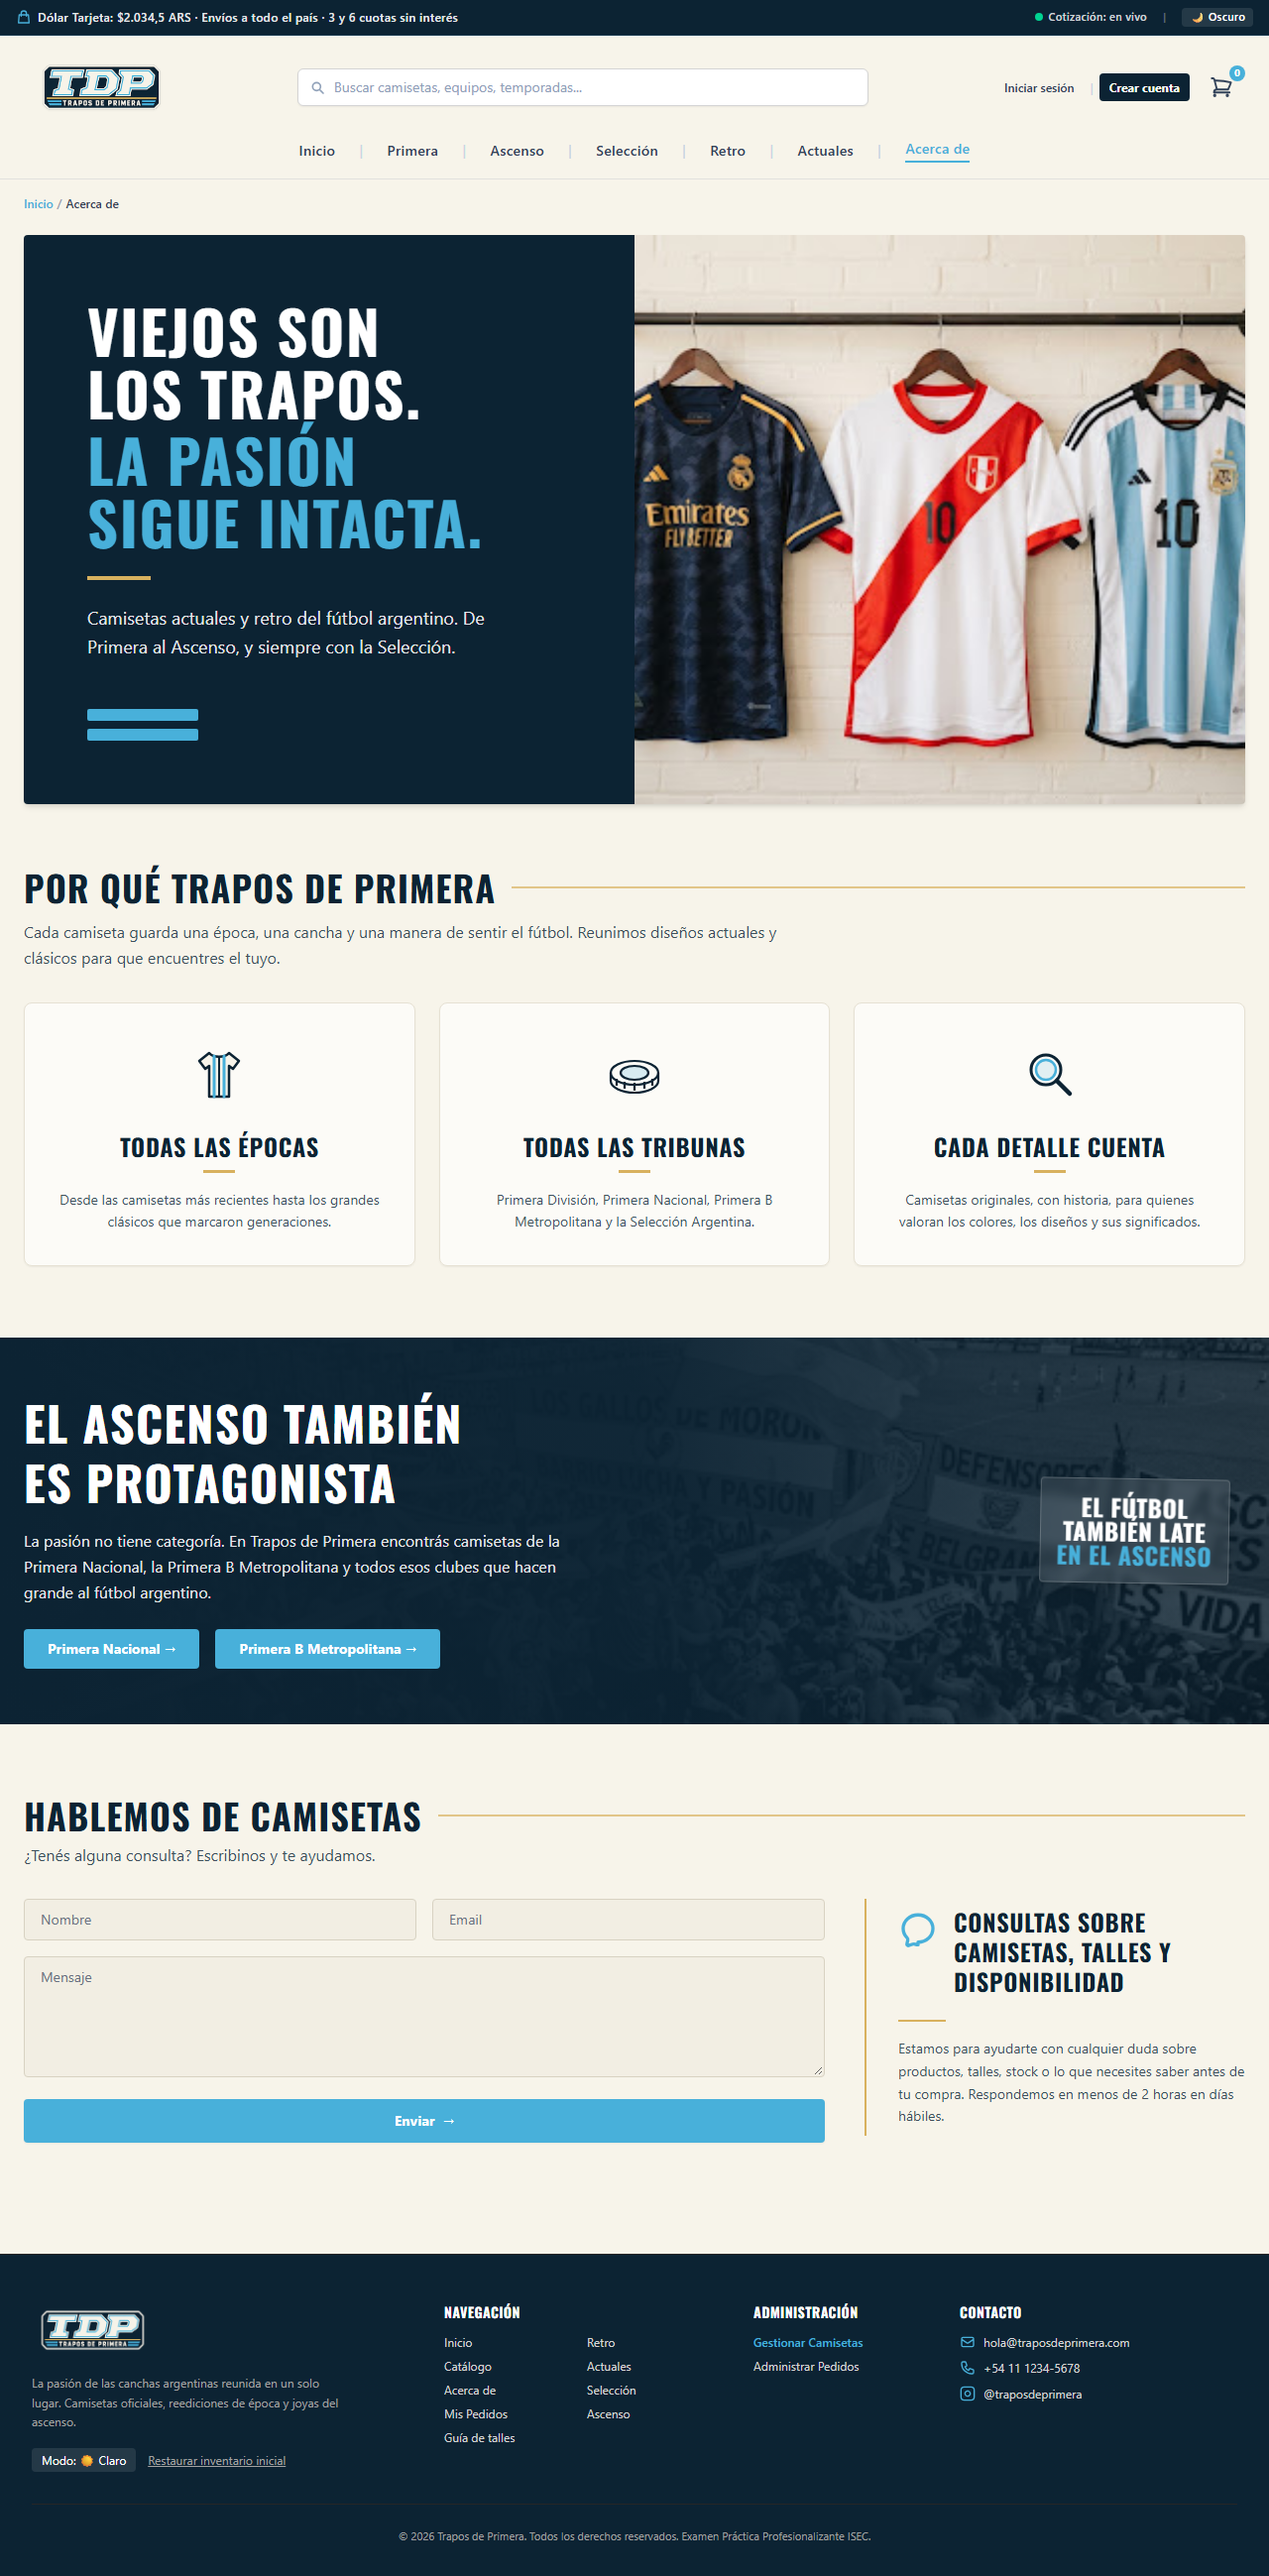
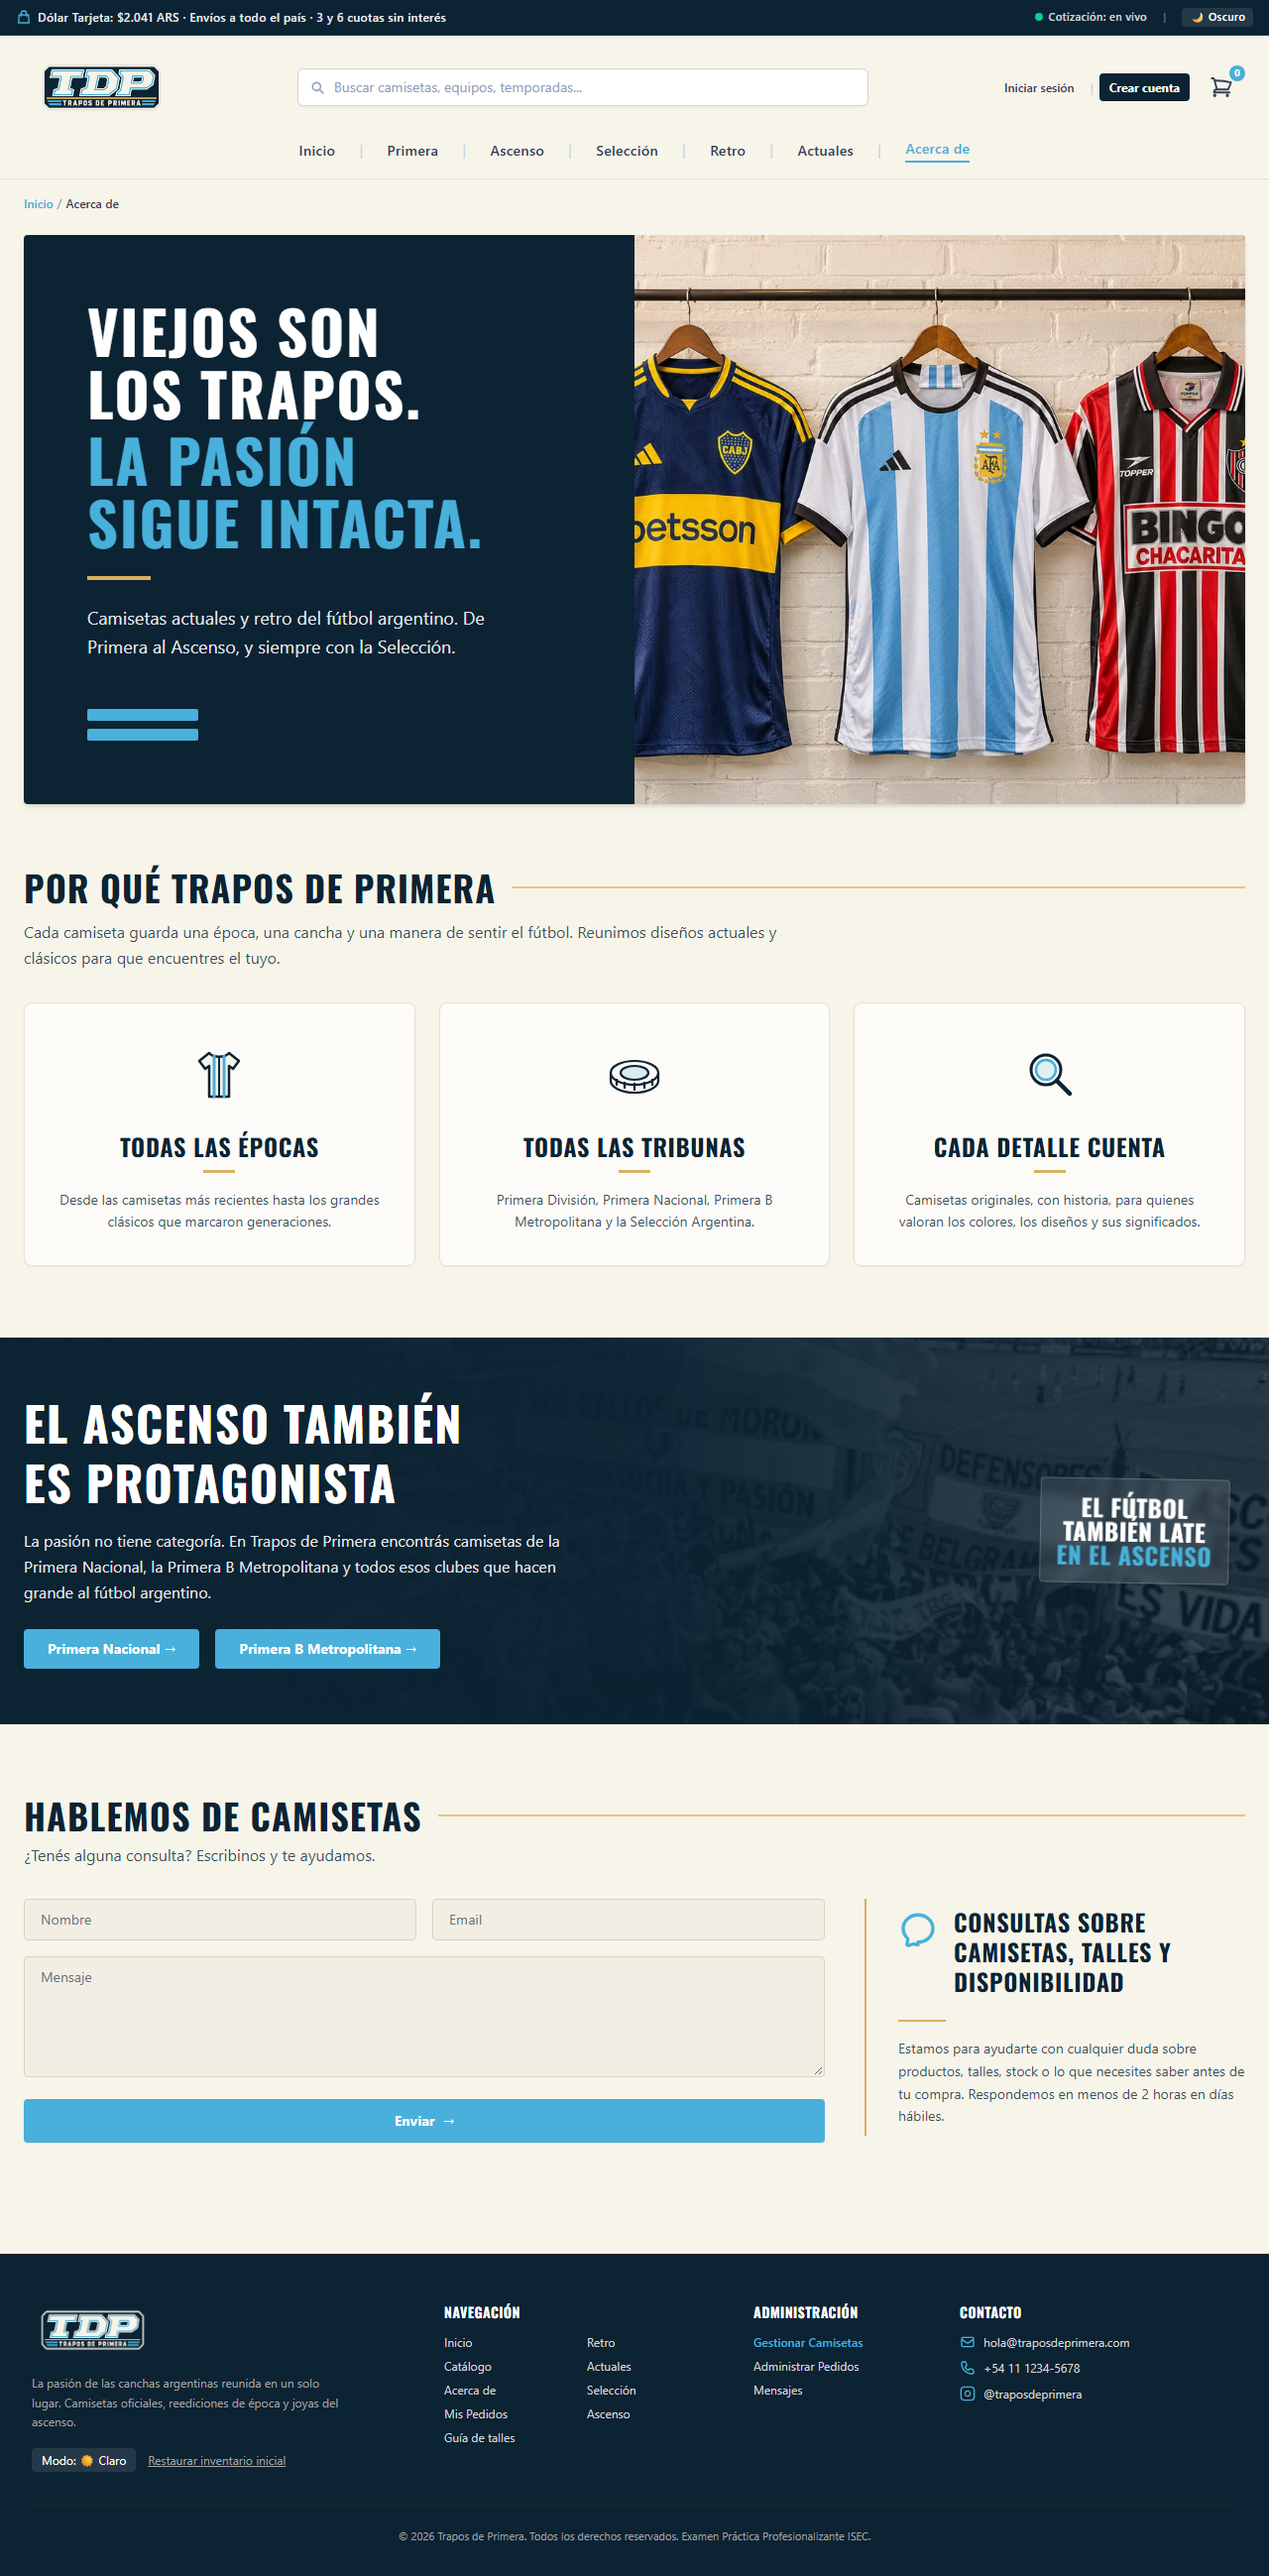
README: integrantes y URL de producción; capturas actualizadas

Changed region(s): [[0.5, 0.0935, 1.0, 0.3118]]

diff --git a/README.md b/README.md
@@ -4,8 +4,8 @@ Trabajo Práctico Integrador de **Práctica Profesionalizante Desarrollo Web y M
 
 ## Integrantes
 
-- [Nombre y apellido]
-- [Nombre y apellido]
+- Franco Fusco
+- Franco Landaburu
 
 ## Descripción
 
@@ -154,7 +154,7 @@ Portadas de las tarjetas "Elegí tu cancha" del Inicio, enlazadas desde Wikimedi
 
 ## Despliegue
 
-URL de producción: `[URL de Vercel]`
+URL de producción: <https://trapos-de-primera.vercel.app>
 
 El proyecto incluye `vercel.json`, que redirige todas las rutas a `index.html` para que funcionen al recargar o al entrar por un enlace directo. En Vercel alcanza con importar el repositorio: detecta Vite, compila con `npm run build` y publica `dist/`.
 
